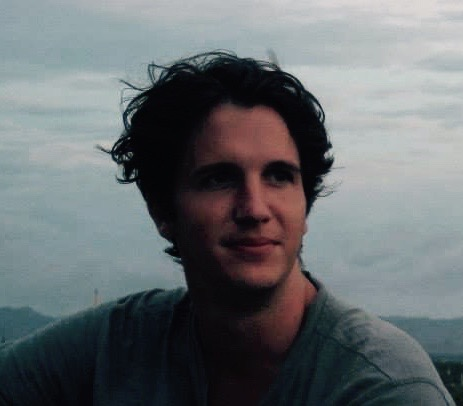
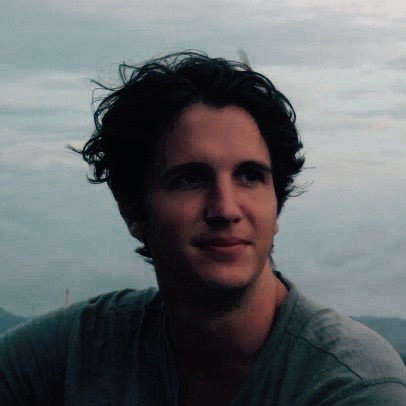
[update] reformatted profile picture

diff --git a/index.html b/index.html
@@ -50,7 +50,7 @@
 
     <div id='content'>
 
-      <div id='projects' class='wow fadeInUp'>
+      <div id='projects' class='wow fadeInUp' data-wow-duration='2s'>
 
       <div class='project col-md-6'><h3 class='project-title'>Immedia: A Real-Time Encyclopedia</h3>
         <a href='http://www.immedia.xyz' target='_blank'>[ website ]</a>

diff --git a/styles/styles.css b/styles/styles.css
@@ -79,7 +79,7 @@ img {
 #welcome-panel {
   width: 100%;
   margin: 0 auto;
-  margin-top: -11%;
+  margin-top: -12%;
   background: white;
   padding: 20px;
 }
@@ -91,7 +91,7 @@ img {
 }
 
 .left {
-  margin-left: 20%;
+  margin-left: 15%;
 }
 
 .right {

diff --git a/app.js b/app.js
@@ -37,7 +37,7 @@ $(document).ready(function() {
 var smoothScrollTo = function(elem) {
   $('html, body').animate({
     scrollTop: $(elem).offset().top
-  }, 1000);
+  }, 500);
 };
 
 
